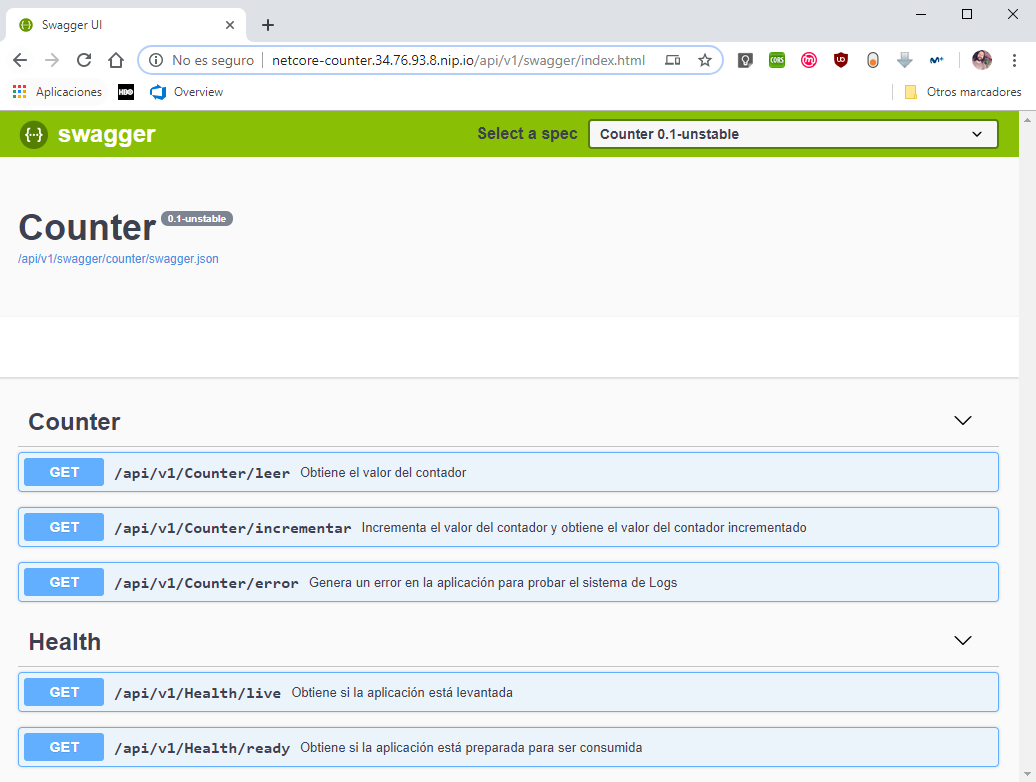
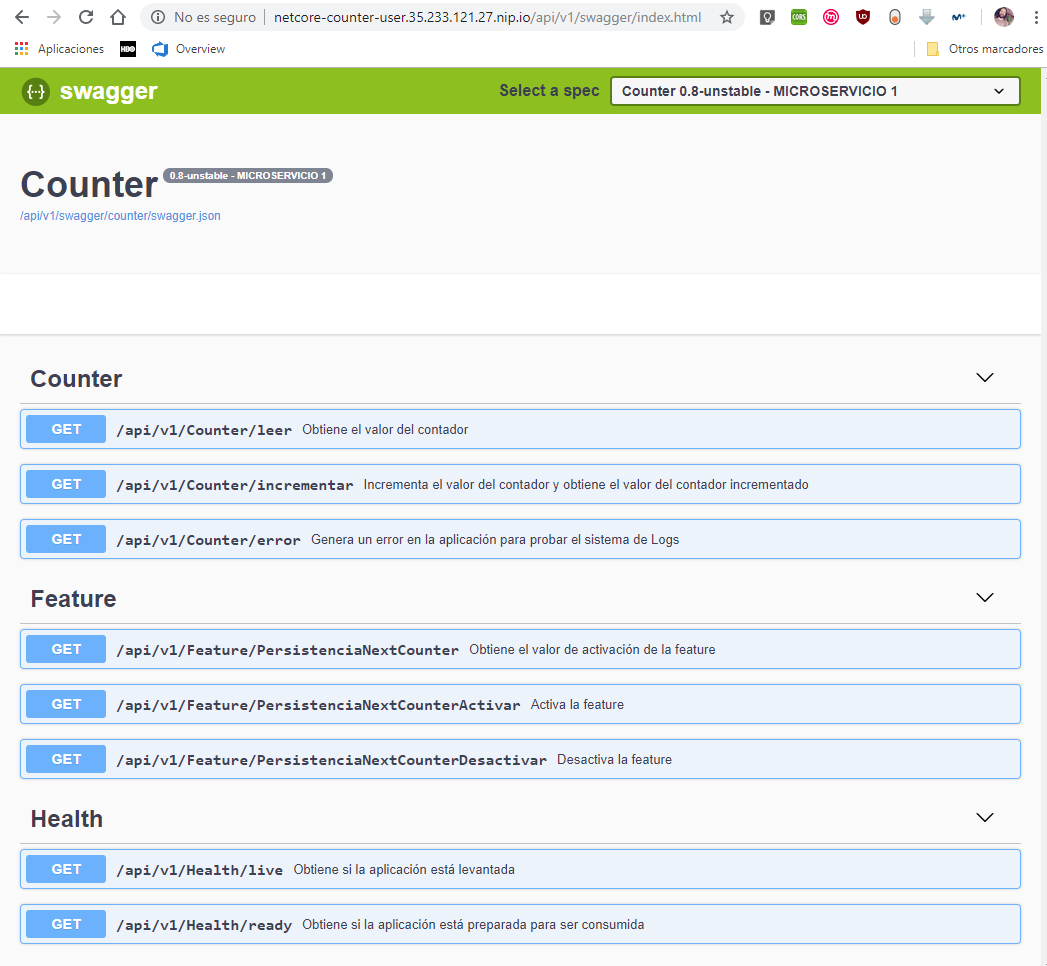
Actualiza documentación (#14)
* Añade Web API

* Modifica ruta Swagger

* Mejora Dockerfile

* Añade script para construir y arrancar la imagen

* Corrige puertos docker run

* Añade persistencia redis

* Modifica start.sh

* Corrige start.sh

* Añade docker-compose.yml

* Modifica Startup.cs

* Modifica docker-compose.yml

* Modifica docker-compose.yml

* Añade configuración

* Añade variables de entorno

* Modifica variables de entorno

* Añade variables de entorno

* Añade variables de entorno

* Corrige docker-compose.yml

* Agrupa variables de configuración

* Añade Test

* Modifica Dockerfile

* Añade declaraciones de Kubernetes

* Añade documentación sobre Kubernetes

* Corrige deployments de Kubernetes

* Corrige 05_counter-deployment.yaml

* Corrige 05_counter-deployment.yaml

* Modifica despliegue en Kubernetes

* Actualiza documentación

* Corrige errores en documentación

* Añade Chart de Helm

* Utiliza Google.Cloud.Logging.NLog

* Actualiza número de versión

* Corrige versión en 01_counter-deployment.yaml

* Revert 4e4c8f7c539d4cf6bc2e310c6b721ca8511d51d0

* Revert "Utiliza Google.Cloud.Logging.NLog"

* Añade direcciones a documentación

* Corrige error de ortografía

* Aumenta límites de Deployments e incorpora affinity y anti-affinity

* Elimina affinity

* Añade affinity y anti-affinity

* Corrige 05_counter-deployment.yaml

* Corrige error de publicación de logs no-JSON

* Actualiza imagen de la aplicación a 0.3-unstable

* Actualiza versión en variable de entorno
[…]

Changed region(s): [[0.0, 0.3683, 0.9884, 0.9821], [0.0, 0.0, 1.0, 0.3376], [0.9884, 0.9821, 1.0, 1.0]]

diff --git a/README.md b/README.md
@@ -127,6 +127,7 @@ Instalar *[Helm](https://helm.sh/docs/helm/)*:
 
 ```bash
 cd netcore-counter/helm
+chmod 700 *.sh
 ./helm_install.sh
 cd ../..
 ```
@@ -151,12 +152,18 @@ kubectl apply -f ./netcore-counter/nginx-ingress/mandatory.yaml
 kubectl apply -f ./netcore-counter/nginx-ingress/cloud-generic.yaml
 ```
 
+Esperar a que se se haya asginado una IP en el resultado de ejecutar la siguiente instrucción:
+
+```bash
+kubectl get services --all-namespaces | grep LoadBalancer|awk '{print $5};'
+```
+
 Crear *Ingress* del servicio *netcore-counter-user*:
 
 ```bash
 LOAD_BALANCER_IP=$(kubectl get services --all-namespaces|grep LoadBalancer|awk '{print $5};')
 sed -i "s/0.0.0.0/$LOAD_BALANCER_IP/g" ./netcore-counter/nginx-ingress/netcore-counter-ingress-user.yaml
-kubectl apply -f ./netcore-counter/nginx-ingress/netcore-counter-ingress-user.yaml
+kubectl apply -f ./netcore-counter/nginx-ingress/netcore-counter-ingress-user.yaml --namespace=netcore-counter
 ```
 
 Una vez instalada, se puede ver en qué IP está expuesta la aplicación fuera del clúster con:
@@ -167,6 +174,6 @@ kubectl get ingress netcore-counter-user --namespace=netcore-counter
 
 ![IP Ingress](./img/ip-ingress.png)
 
-La IP en la que está expuesta la aplicación fuera del clúster está en el campo *HOSTS*. Utilizando [nip.io](https://nip.io/) se puede acceder a la aplicación fácilmente fuera del clúster. En este ejemplo, está expuesta en "[http://netcore-counter.34.76.93.8.nip.io/api/v1/swagger/index.html](http://netcore-counter.34.76.93.8.nip.io/api/v1/swagger/index.html)":
+La IP en la que está expuesta la aplicación fuera del clúster está en el campo *HOSTS*. Utilizando [nip.io](https://nip.io/) se puede acceder a la aplicación fácilmente fuera del clúster. En este ejemplo, está expuesta en "[http://netcore-counter.35.233.121.27.nip.io/api/v1/swagger/index.html](http://netcore-counter.35.233.121.27.nip.io/api/v1/swagger/index.html)":
 
 ![Swagger Kubernetes](./img/swagger-kubernetes.png)
